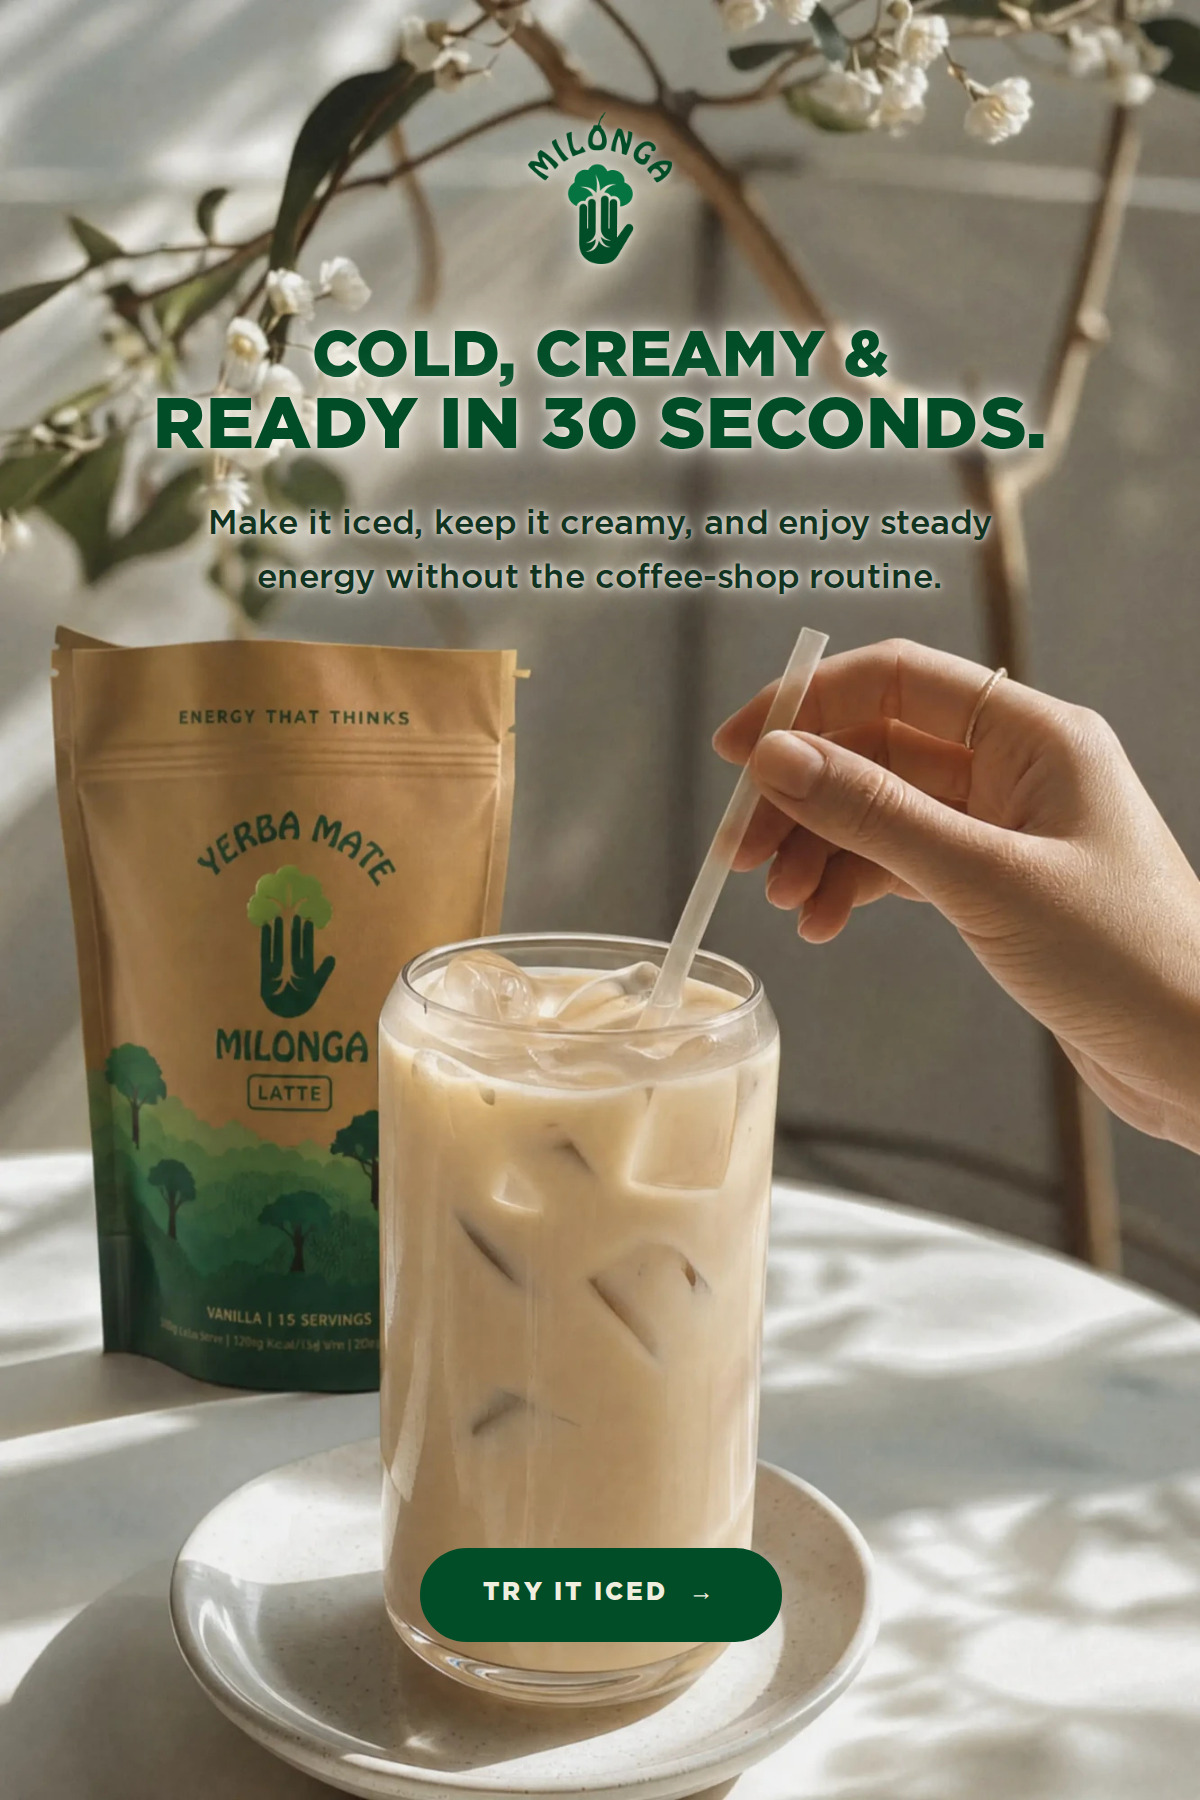
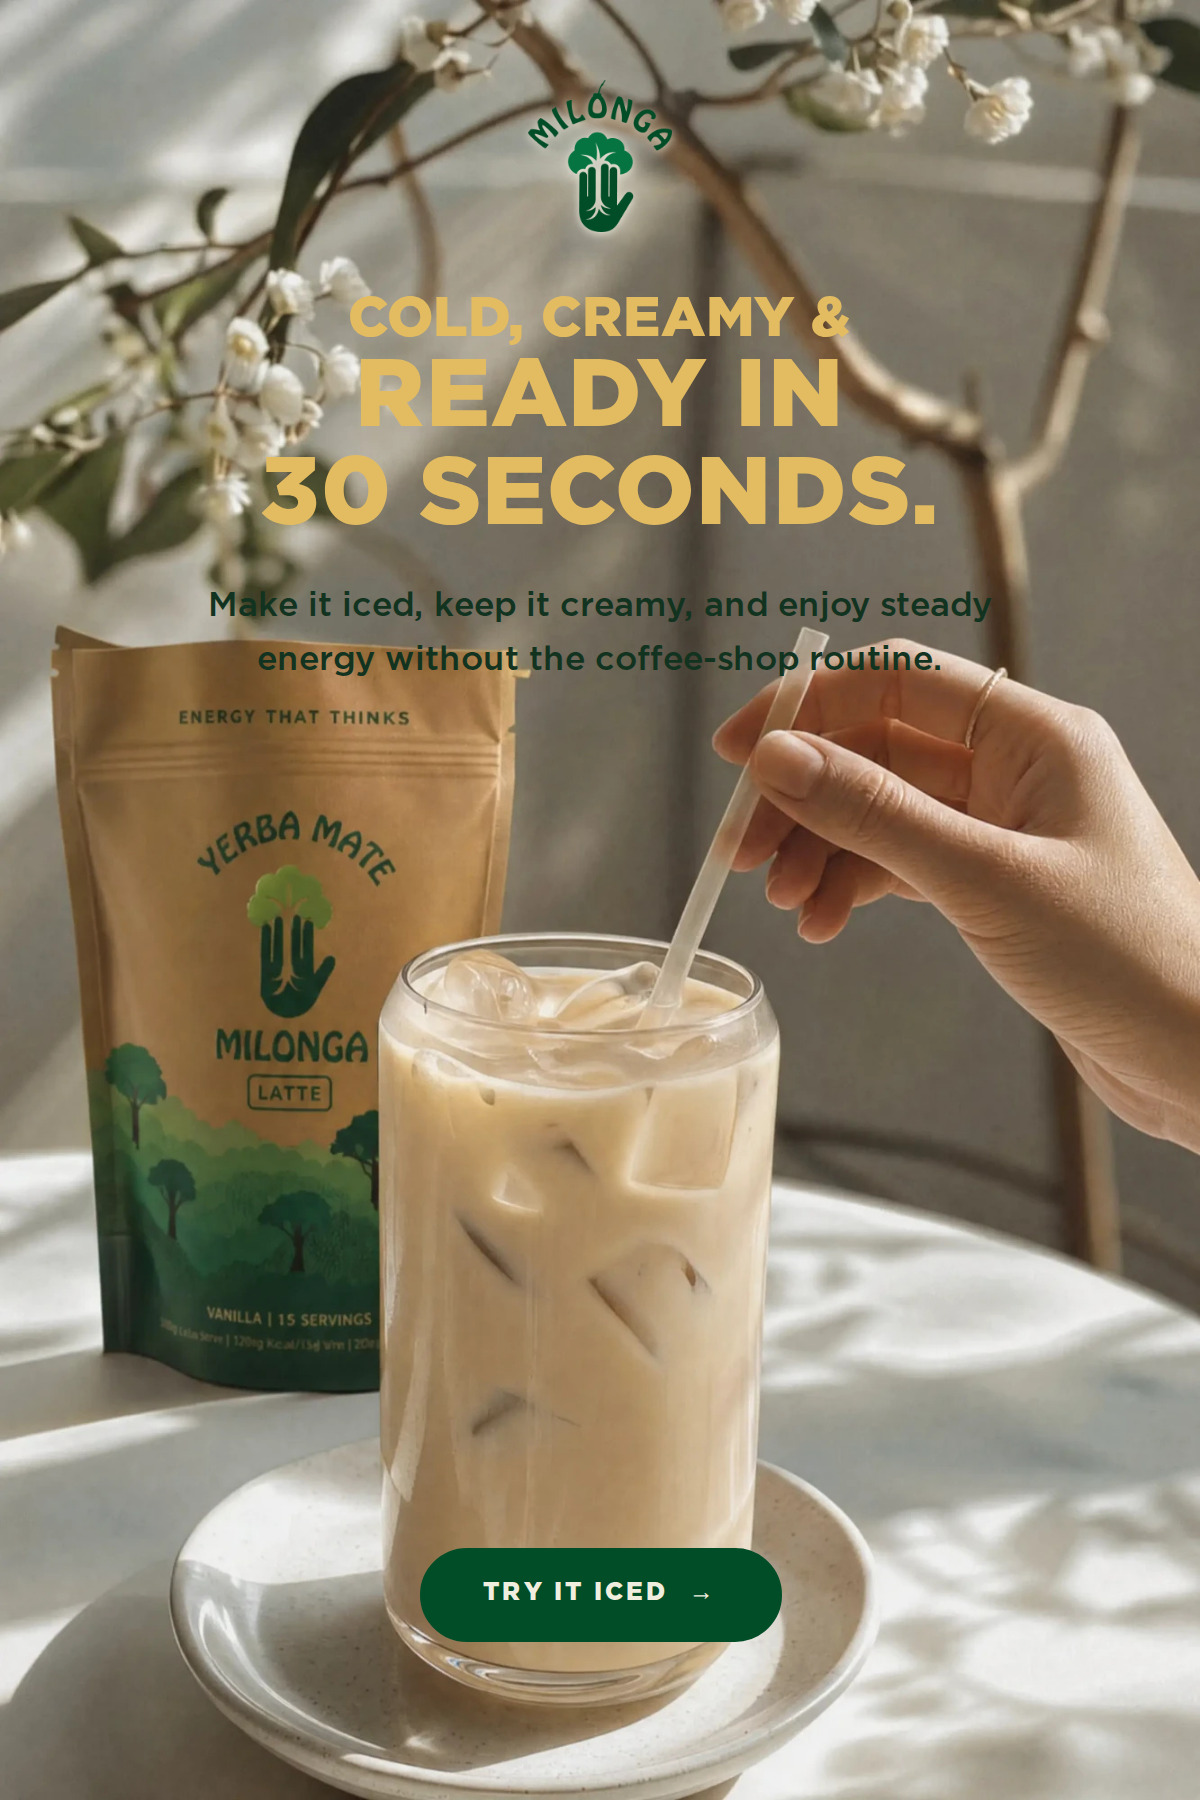
email: how-to-make-it, gold title, flat, and much bigger
The halo comes off, both title lines go gold, and the payoff runs 36 -> 48
with the setup dropping 32 -> 28, so the split is nearly two to one.

CapsLine honours explicit breaks now. At 48 "READY IN 30 SECONDS." wraps on
its own after "30" and strands "SECONDS."; the break gives two rows of about
304 and 418 units instead. A headline big enough to wrap breaks where the
column runs out, which is almost never where the sense divides.

MEASURED, AND BELOW THE FLOOR. The band the title occupies averages
rgb(131,123,105) and spans 35 to 247. Gold on that mean is 2.33:1 and on the
blossoms behind the first line 1.80:1, against a 3:1 floor for large text.
Forest was 2.39:1 on the same mean but far stronger on the bright half, which
is why it was the ink here and why the cream halo existed. Recorded rather
than overridden — it is Bernat's call, and putting the halo back on the title
alone fixes it in one line.

Claude-Session: https://claude.ai/code/session_01NhEtXPnfeCJfN73SqBkUZ5

Changed region(s): [[0.1233, 0.0311, 0.8942, 0.3733]]

diff --git a/email-ds/emails/how-to-make-it.jsx b/email-ds/emails/how-to-make-it.jsx
@@ -45,9 +45,13 @@ function HowToMakeIt() {
       // on the frame.
       align: 'center',
       line1: 'Cold, creamy &',
-      line2: 'ready in 30 seconds.',
-      line1Color: '#004D27',
-      line2Color: '#004D27',
+      // The payoff breaks where the sense breaks, not where the column runs
+      // out. At this size "READY IN 30 SECONDS." wraps on its own after "30"
+      // and strands "SECONDS." — the explicit break gives two rows of 304 and
+      // 418 units instead.
+      line2: 'ready in\n30 seconds.',
+      line1Color: '#E3BC62',
+      line2Color: '#E3BC62',
       paras: ['Make it iced, keep it creamy, and enjoy steady energy without the coffee-shop routine.'],
       cta: { label: 'Try it iced', href: '#shop', arrow: true },
       // Pinned low, the way the full-image opener is meant to work: the mark
@@ -57,15 +61,17 @@ function HowToMakeIt() {
       at: '86%',
       ctaAlign: 'center',
       ratio: 1.5,
-      size: 32,
-      size2: 36,
+      size: 28,
+      size2: 48,
       titleLead: 1.02,
-      top: 56,
+      top: 40,
       padLeft: 26,
       padRight: 26,
       measure: 430,
       ink: 'dark',
       scrim: 0,
+      // Flat letters. The cream halo goes.
+      halo: 'none',
     }),
 
     // ── 2 · THE PROCESS ───────────────────────────────────────────────────

diff --git a/email-ds/src/components/HeroTemplates.tsx b/email-ds/src/components/HeroTemplates.tsx
@@ -126,10 +126,15 @@ function Pill({
 const TRAILING_EMOJI = /^(.*?)[\s ]*(\p{Extended_Pictographic}[\p{Extended_Pictographic}\u{1F3FB}-\u{1F3FF}]*)$/u;
 
 function CapsLine({ text, style }: { text: string; style: React.CSSProperties }) {
+  // Explicit breaks are honoured. A headline big enough to wrap will otherwise
+  // break wherever it runs out of width, which is almost never where the sense
+  // divides — and at poster scale the difference between an even two rows and
+  // a row plus a stub is the whole look of the section.
+  const wrap: React.CSSProperties = { whiteSpace: 'pre-line', ...style };
   const m = TRAILING_EMOJI.exec(text);
-  if (!m || !m[1]) return <div style={style}>{text}</div>;
+  if (!m || !m[1]) return <div style={wrap}>{text}</div>;
   return (
-    <div style={style}>
+    <div style={wrap}>
       {m[1]}
       <span
         style={{
